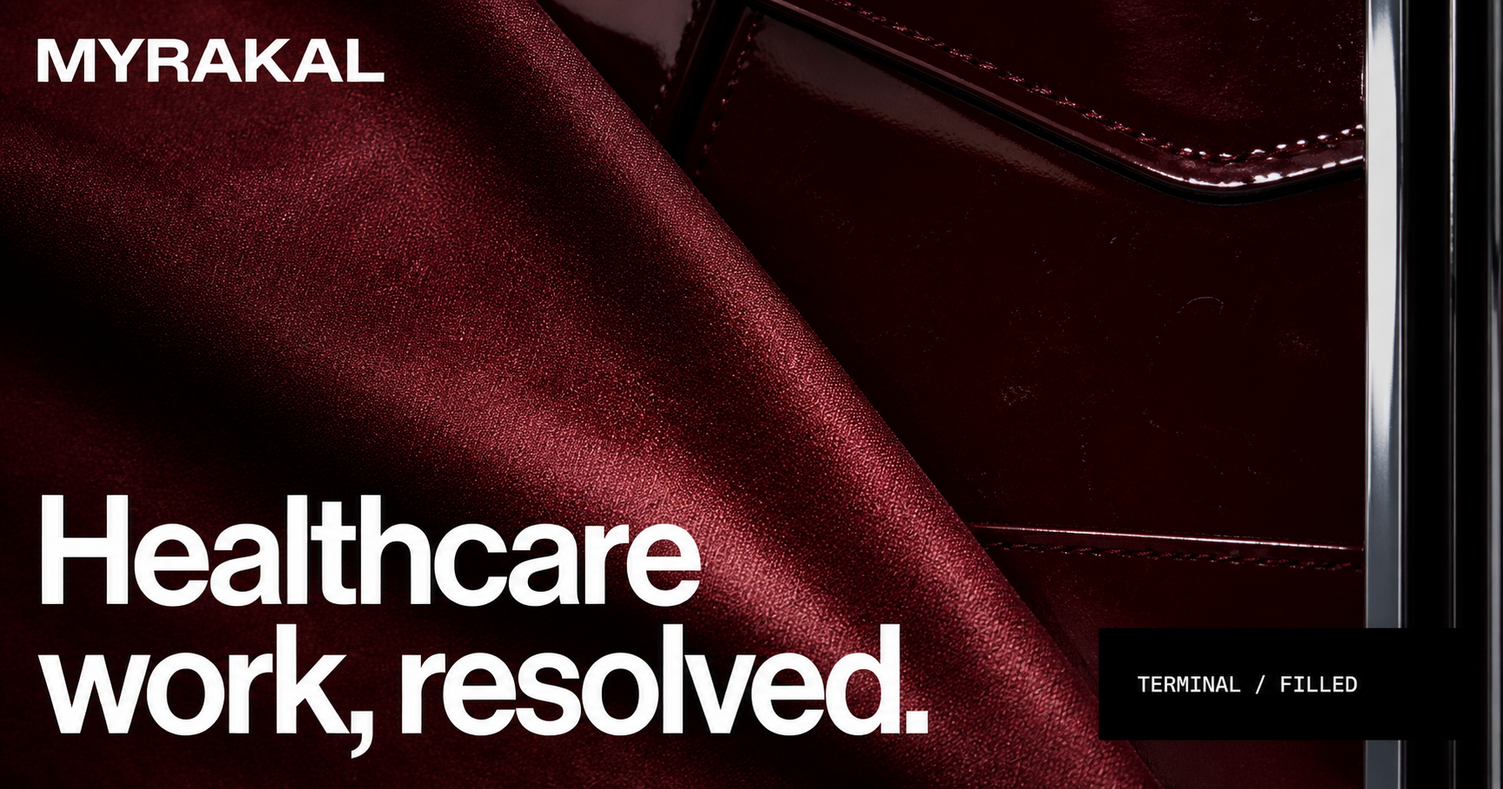
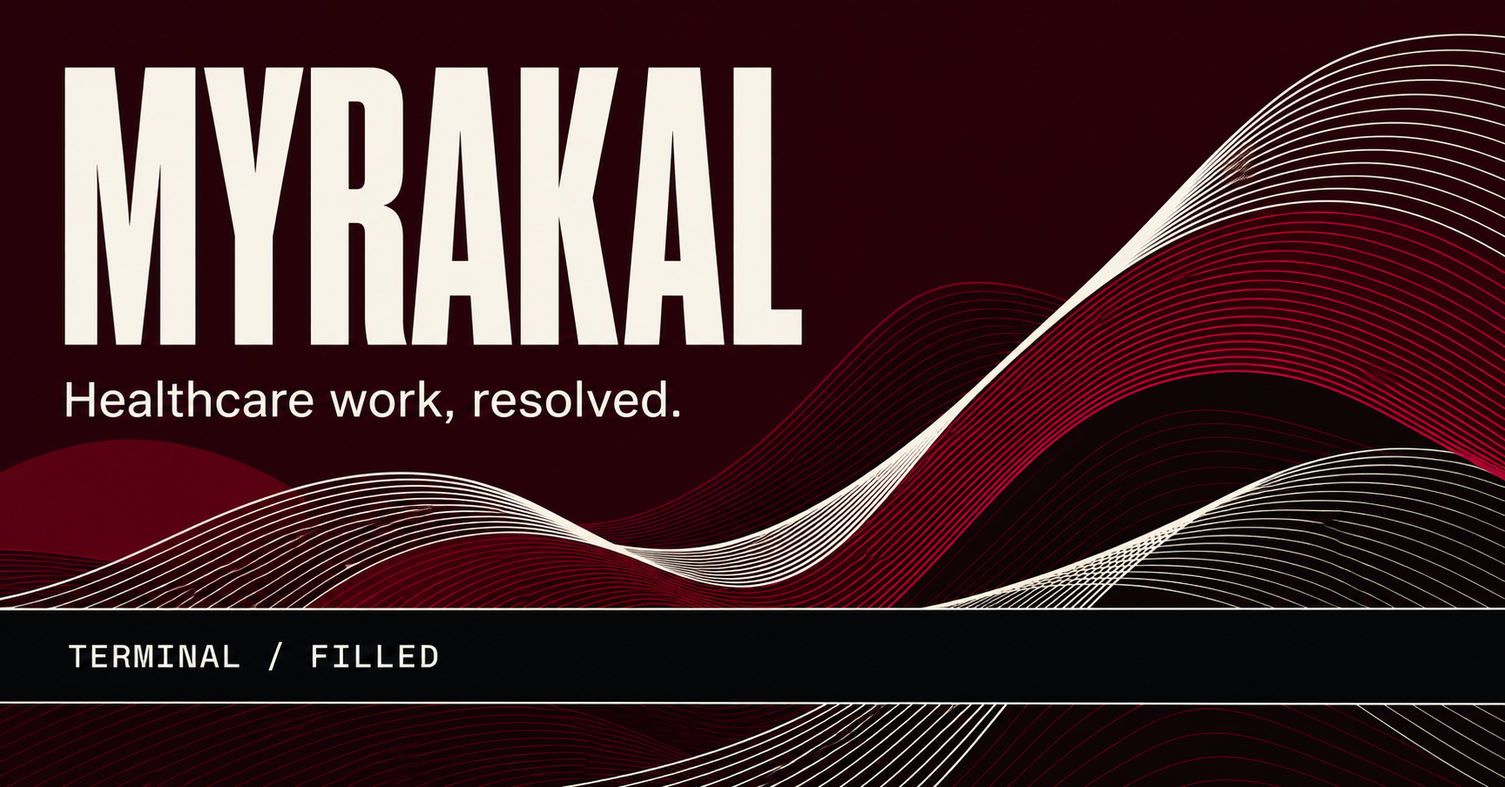
Replace photography with procedural motion

diff --git a/app/globals.css b/app/globals.css
@@ -2,17 +2,33 @@
 :root{--paper:#f2efe9;--ink:#090909;--ox:#700711;--deep:#240205;--pale:#f6f2ec;--rule:rgba(9,9,9,.24);--mono:var(--font-mono),ui-monospace,monospace}
 *{box-sizing:border-box}html{scroll-behavior:smooth}body{margin:0;background:var(--paper);color:var(--ink);font-family:var(--font-geist),Arial,sans-serif}a{color:inherit}a:focus-visible{outline:2px solid currentColor;outline-offset:5px}h1,h2,h3,p{margin-top:0}section{position:relative}.eyebrow,.section-number{font:500 .64rem/1.4 var(--mono);letter-spacing:.16em;margin:0 0 1.4rem}.eyebrow.dark{color:#655d58}section h2{font-size:clamp(3.5rem,6.8vw,7.8rem);line-height:.87;letter-spacing:-.07em;font-weight:520;margin:0}
 
-.hero{min-height:100svh;display:flex;align-items:flex-end;padding:9rem 3vw 4rem;color:var(--pale);background:var(--deep) url('/myrakal-hero.png') center/cover no-repeat;isolation:isolate;overflow:hidden}.cloth-ripple{position:absolute;inset:0;width:100%;height:100%;z-index:-3;display:block;opacity:0;transition:opacity 1.1s ease}.cloth-ripple[data-ready="true"]{opacity:1}.studio-light{position:absolute;inset:-30%;z-index:-2;background:linear-gradient(112deg,transparent 35%,rgba(255,220,215,.18) 47%,transparent 59%);mix-blend-mode:screen;animation:lightPass 9s ease-in-out infinite}.hero:after{content:"";position:absolute;inset:0;z-index:-1;background:linear-gradient(90deg,rgba(12,0,0,.48),rgba(12,0,0,.04) 60%,rgba(12,0,0,.4))}.nav{position:absolute;top:0;left:0;width:100%;padding:2rem 3vw;display:flex;justify-content:space-between;border-bottom:1px solid #ffffff47;font-size:.7rem;letter-spacing:.15em;z-index:2}.brand{font-weight:650;letter-spacing:.42em;text-decoration:none}.nav nav{display:flex;gap:2rem}.nav nav a{text-decoration:none}.hero-copy{width:min(1200px,92vw);animation:heroRise 1.2s cubic-bezier(.2,.7,.2,1) both}.hero h1{font-size:clamp(4.5rem,10.4vw,10.7rem);line-height:.79;letter-spacing:-.078em;font-weight:540;margin:0;max-width:11ch;animation:focusIn 1.6s .12s cubic-bezier(.2,.7,.2,1) both}.intro{max-width:55ch;font:400 clamp(.9rem,1.15vw,1.06rem)/1.55 var(--mono);margin:2.4rem 0 0}.hero-actions{display:flex;gap:2rem;margin-top:2rem}.hero-actions a{font:500 .66rem var(--mono);letter-spacing:.12em;text-decoration:none;border-bottom:1px solid;padding-bottom:.3rem}.live-readout{position:absolute;right:3vw;bottom:4rem;display:grid;gap:.55rem;text-align:right;font:500 .62rem/1 var(--mono);letter-spacing:.1em;animation:statusBlink 7s steps(1) infinite}@keyframes lightPass{0%,18%{transform:translateX(-35%);opacity:0}48%{opacity:.9}78%,100%{transform:translateX(35%);opacity:0}}@keyframes heroRise{from{opacity:0;transform:translateY(28px)}to{opacity:1;transform:none}}@keyframes focusIn{from{filter:blur(8px);opacity:.35}to{filter:blur(0);opacity:1}}@keyframes statusBlink{0%,94%{opacity:1}95%,97%{opacity:.45}98%,100%{opacity:1}}
+.hero{min-height:100svh;display:flex;align-items:flex-end;padding:9rem 3vw 4rem;color:var(--pale);background:radial-gradient(ellipse at 68% 28%,#5b0915 0%,#260207 48%,#100104 100%);isolation:isolate;overflow:hidden}.procedural-cloth{position:absolute;inset:0;width:100%;height:100%;z-index:-3;display:block}.hero:after{content:"";position:absolute;inset:0;z-index:-1;background:linear-gradient(90deg,rgba(12,0,0,.56),rgba(12,0,0,.02) 64%,rgba(12,0,0,.32))}.nav{position:absolute;top:0;left:0;width:100%;padding:2rem 3vw;display:flex;justify-content:space-between;border-bottom:1px solid #ffffff47;font-size:.7rem;letter-spacing:.15em;z-index:2}.brand{font-weight:650;letter-spacing:.42em;text-decoration:none}.nav nav{display:flex;gap:2rem}.nav nav a{text-decoration:none}.hero-copy{width:min(1200px,92vw);animation:heroRise 1.2s cubic-bezier(.2,.7,.2,1) both;position:relative;z-index:1}.hero h1{font-size:clamp(4.5rem,10.4vw,10.7rem);line-height:.79;letter-spacing:-.078em;font-weight:540;margin:0;max-width:11ch;animation:focusIn 1.6s .12s cubic-bezier(.2,.7,.2,1) both}.intro{max-width:55ch;font:400 clamp(.9rem,1.15vw,1.06rem)/1.55 var(--mono);margin:2.4rem 0 0}.hero-actions{display:flex;gap:2rem;margin-top:2rem}.hero-actions a{font:500 .66rem var(--mono);letter-spacing:.12em;text-decoration:none;border-bottom:1px solid;padding-bottom:.3rem}.live-readout{position:absolute;right:3vw;bottom:4rem;display:grid;gap:.55rem;text-align:right;font:500 .62rem/1 var(--mono);letter-spacing:.1em;animation:statusBlink 7s steps(1) infinite}.hero-trace{position:absolute;right:0;top:24%;width:min(31rem,42vw);background:#080808;color:#f4f1ec;padding:1.1rem 3vw 1.1rem 1.25rem;display:grid;gap:.65rem;font:500 .61rem var(--mono);letter-spacing:.07em;border-left:1px solid #fff;border-top:1px solid #444;border-bottom:1px solid #444}.hero-trace span{color:#8d8d8a}.hero-trace b{font-weight:500;background:var(--pale);color:var(--ink);padding:.45rem .55rem;width:max-content}@keyframes heroRise{from{opacity:0;transform:translateY(28px)}to{opacity:1;transform:none}}@keyframes focusIn{from{filter:blur(8px);opacity:.35}to{filter:blur(0);opacity:1}}@keyframes statusBlink{0%,94%{opacity:1}95%,97%{opacity:.45}98%,100%{opacity:1}}
 
 .problem{padding:12rem 3vw 10rem;background:var(--paper);min-height:110svh}.section-number{position:absolute;top:2rem;left:3vw;color:#655d58}.problem-head{max-width:1200px}.signal-stack{margin:8rem 0 7rem 34%;border-top:1px solid var(--ink)}.signal-stack article{display:grid;grid-template-columns:4rem 1fr;align-items:center;padding:1.4rem 0;border-bottom:1px solid var(--rule)}.signal-stack span{font:.64rem var(--mono)}.signal-stack p{font-size:clamp(1.25rem,2.4vw,2.55rem);letter-spacing:-.035em;margin:0}.problem-close{display:grid;grid-template-columns:1fr 1.55fr .55fr;gap:3vw;align-items:end;border-top:1px solid var(--ink);padding-top:1.5rem}.problem-close p{font:500 .68rem/1.5 var(--mono);letter-spacing:.09em}.problem-close strong{font-size:clamp(2.1rem,4.1vw,4.9rem);line-height:.94;letter-spacing:-.058em;font-weight:520}
 
 .schedule{padding:14vh 3vw 18vh;background:var(--paper)}.schedule-intro{display:grid;grid-template-columns:1fr 1.15fr;gap:5vw}.schedule-intro>.eyebrow{grid-column:1}.schedule-intro>h2{grid-column:1/3;max-width:14ch}.schedule-intro>p:not(.eyebrow){grid-column:2;max-width:42ch;font-size:1.16rem;line-height:1.45;margin:2rem 0 0}.comparison{grid-column:1/3;display:grid;grid-template-columns:1fr 1fr;margin-top:5rem;border-top:1px solid var(--ink)}.comparison article{padding:1.2rem 3vw 2rem 0;display:grid}.comparison article+article{border-left:1px solid var(--rule);padding-left:3vw}.comparison small,.comparison em{font:500 .61rem var(--mono);letter-spacing:.12em}.comparison b{font-size:clamp(3.5rem,7vw,8rem);line-height:.9;letter-spacing:-.075em;margin-top:2.5rem}.comparison span{font:.68rem var(--mono);margin:.6rem 0 2.2rem}.comparison em{font-style:normal}.resolution-run{margin-top:12rem;padding-left:7vw;position:relative}.run-rail{position:absolute;left:0;top:0;height:100%;display:flex;flex-direction:column;justify-content:space-between;font:500 .58rem var(--mono);letter-spacing:.12em;color:#777}.run-rail:after{content:"";position:absolute;left:50%;top:2rem;bottom:2rem;width:1px;background:var(--ox);transform-origin:top;animation:railDraw linear both;animation-timeline:view();animation-range:entry 5% cover 85%}.console{width:min(760px,72vw);margin-left:auto;background:#090909;color:var(--pale);padding:1.5rem;font:400 .69rem/1.4 var(--mono);box-shadow:12px 12px 0 var(--ox)}.console-top,.console-context{display:flex;justify-content:space-between;gap:1rem;letter-spacing:.07em}.console-top{padding-bottom:1rem;border-bottom:1px solid #404040}.console-context{color:#929292;padding:1rem 0 2.2rem}.log{border-top:1px solid #242424}.log-line{display:grid;grid-template-columns:5.9rem 1fr auto;gap:.7rem;padding:.85rem 0;border-bottom:1px solid #242424;animation:appear .2s both;animation-delay:calc(var(--i)*60ms)}.log-line time{color:#707070}.log-line b{font-weight:400}.case-panels{display:grid;grid-template-columns:.85fr 1.15fr;gap:2vw;margin:8rem 4vw 0 0}.case-panels article{padding:1.5rem}.why-panel{background:#090909;color:var(--pale);font:.68rem var(--mono)}.panel-head{display:flex;justify-content:space-between;border-bottom:1px solid #444;padding-bottom:1rem;margin-bottom:2rem;letter-spacing:.1em}.why-panel p{display:grid;grid-template-columns:7rem 1fr;padding:.85rem 0;border-top:1px solid #303030;margin:0}.why-panel p span{color:#777}.why-panel p b{font-weight:400}.barrier-panel{background:var(--ox);color:var(--pale);display:flex;flex-direction:column;justify-content:center}.barrier-panel h3{font-size:clamp(2.4rem,4.5vw,5.2rem);line-height:.94;letter-spacing:-.055em;font-weight:520}.barrier-path{display:grid;grid-template-columns:1fr auto 1fr;gap:1rem;border-top:1px solid #ffffff77;border-bottom:1px solid #ffffff77;padding:1rem 0;margin:3rem 0 2rem;font:.66rem var(--mono)}.barrier-path strong{font-weight:500}.barrier-panel>p:last-child{max-width:38ch;line-height:1.5}.exception-strip{margin:7rem 0 0 18vw;background:var(--paper);border-top:1px solid var(--ink);border-bottom:1px solid var(--ink);padding:1.4rem 0;display:grid;grid-template-columns:5rem 1.1fr 1.3fr auto;gap:2rem;align-items:center;font:.67rem var(--mono);letter-spacing:.05em}.exception-strip b{font-weight:600}.exception-strip p{margin:0}.exception-strip em{font-style:normal;background:var(--ink);color:var(--pale);padding:.8rem}.resume-console{width:min(760px,72vw);margin:7rem 8vw 0 auto;background:#090909;color:var(--pale);padding:1.5rem;font:.69rem var(--mono)}.resume-head{display:flex;justify-content:space-between;padding-bottom:1rem;border-bottom:1px solid #444;margin-bottom:1rem}.resume-console>div:not(.resume-head){display:grid;grid-template-columns:6rem 1fr auto;padding:.85rem 0;border-bottom:1px solid #282828}.resume-console time{color:#777}.resume-console b{font-weight:400}.resume-console>strong{display:flex;justify-content:space-between;background:var(--pale);color:var(--ink);padding:1rem;margin-top:2rem;letter-spacing:.08em}.run-close{font-size:clamp(3rem,6.8vw,8rem);line-height:.87;letter-spacing:-.07em;margin-top:8rem}.run-close p{margin:0}.run-close p:last-child{color:var(--ox)}@keyframes railDraw{from{transform:scaleY(0)}to{transform:scaleY(1)}}@keyframes appear{from{opacity:0;transform:translateY(3px)}to{opacity:1;transform:none}}
 
-.difference{min-height:110svh;background:var(--deep);color:var(--pale);display:grid;grid-template-columns:.78fr 1.22fr;overflow:hidden}.difference-machine{min-height:110svh;background:#090909;padding:2rem 2.5vw;display:flex;flex-direction:column;font:.68rem var(--mono);letter-spacing:.06em;border-right:1px solid #333}.difference-machine>div,.difference-machine>footer{display:flex;justify-content:space-between;border-bottom:1px solid #333;padding-bottom:1rem}.difference-machine>b{font:500 clamp(9rem,20vw,22rem)/.8 var(--font-geist);letter-spacing:-.1em;margin-top:auto}.difference-machine>p{color:#777}.difference-machine ul{list-style:none;margin:4rem 0 auto;padding:0;border-top:1px solid #333}.difference-machine li{display:flex;justify-content:space-between;padding:1rem 0;border-bottom:1px solid #252525}.difference-machine li strong{font-weight:400;color:#aaa}.difference-machine>footer{border-top:1px solid #333;border-bottom:0;padding:1rem 0 0}.difference-copy{background:var(--ox);padding:12vh 3vw;display:flex;flex-direction:column;justify-content:center}.difference-copy h2{font-size:clamp(3.5rem,6vw,7rem)}.difference-grid{margin-top:6rem;border-top:1px solid #ffffff88}.difference-grid article{display:grid;grid-template-columns:3rem 1fr 1.1fr;gap:1rem;align-items:start;padding:1.4rem 0;border-bottom:1px solid #ffffff55}.difference-grid span{font:.6rem var(--mono)}.difference-grid h3{font-size:1.6rem;line-height:1;letter-spacing:-.04em;font-weight:520}.difference-grid p{font-size:.9rem;line-height:1.45;margin:0}
+.difference{min-height:110svh;background:var(--deep);color:var(--pale);display:grid;grid-template-columns:.78fr 1.22fr;overflow:hidden}.difference-machine{min-height:110svh;background:#090909;padding:2rem 2.5vw;display:flex;flex-direction:column;font:.68rem var(--mono);letter-spacing:.06em;border-right:1px solid #3c3c3c}.difference-machine>div,.difference-machine>footer{display:flex;justify-content:space-between;border-bottom:1px solid #333;padding-bottom:1rem}.difference-machine>b{font:500 clamp(9rem,20vw,22rem)/.8 var(--font-geist);letter-spacing:-.1em;margin-top:auto}.difference-machine>p{color:#777}.difference-machine ul{list-style:none;margin:4rem 0 auto;padding:0;border-top:1px solid #333}.difference-machine li{display:flex;justify-content:space-between;padding:1rem 0;border-bottom:1px solid #252525}.difference-machine li strong{font-weight:400;color:#aaa}.difference-machine>footer{border-top:1px solid #333;border-bottom:0;padding:1rem 0 0}.difference-copy{background:var(--ox);padding:12vh 3vw;display:flex;flex-direction:column;justify-content:center}.difference-copy h2{font-size:clamp(3.5rem,6vw,7rem)}.difference-grid{margin-top:6rem;border-top:1px solid #ffffff88}.difference-grid article{display:grid;grid-template-columns:3rem 1fr 1.1fr;gap:1rem;align-items:start;padding:1.4rem 0;border-bottom:1px solid #ffffff55}.difference-grid span{font:.6rem var(--mono)}.difference-grid h3{font-size:1.6rem;line-height:1;letter-spacing:-.04em;font-weight:520}.difference-grid p{font-size:.9rem;line-height:1.45;margin:0}
 
 .ghost{padding:14vh 3vw 16vh;background:var(--ox);color:var(--pale);display:grid;grid-template-columns:1fr 1fr;gap:8vw}.ghost-copy p:last-child{max-width:42ch;font-size:1.08rem;line-height:1.5;margin-top:2.5rem}.ghost-console{background:#090909;padding:1.5rem;font:400 .7rem var(--mono);align-self:end;box-shadow:12px 12px 0 var(--pale)}.ghost-head{display:flex;justify-content:space-between;border-bottom:1px solid #444;padding-bottom:1rem}.ghost-console>b{font:500 clamp(4rem,8vw,8rem)/1 var(--font-geist);display:block;letter-spacing:-.07em;margin-top:3rem}.ghost-console>span{color:#aaa}.ghost-stats{display:grid;grid-template-columns:repeat(3,1fr);margin-top:4rem;border-top:1px solid #444}.ghost-stats p{padding:1rem 1rem 2rem 0;border-right:1px solid #333;margin:0}.ghost-stats b{display:block;font-size:1.8rem;margin-bottom:.5rem}
 
 .platform{background:#090909;color:var(--pale)}.platform-top{padding:14vh 3vw 12vh;display:grid;grid-template-columns:1.15fr .85fr;gap:8vw}.platform-top>div:first-child>p:last-child{max-width:43ch;font-size:1.08rem;line-height:1.5;margin-top:2.5rem}.system-flow{align-self:center;display:grid;text-align:center;font:.68rem var(--mono);letter-spacing:.08em}.system-flow span,.system-flow b{border:1px solid #ffffff90;padding:1.8rem 1rem}.system-flow b{background:var(--pale);color:var(--ink)}.system-flow i{font-style:normal;padding:1.2rem}.trust-grid{display:grid;grid-template-columns:repeat(4,1fr);border-top:1px solid #363636;border-bottom:1px solid #363636;margin:0 3vw}.trust-grid article{padding:1.4rem 2vw 5rem 0;border-right:1px solid #363636}.trust-grid article+article{padding-left:2vw}.trust-grid article:last-child{border-right:0}.trust-grid span{font:.6rem var(--mono);color:#777}.trust-grid h3{font-size:1.55rem;line-height:1;letter-spacing:-.04em;font-weight:520;margin:3rem 0 1.2rem}.trust-grid p{font-size:.88rem;line-height:1.5;color:#bbb}.final-cta{min-height:95svh;background:var(--ox);margin-top:12vh;padding:12vh 3vw 2rem;display:flex;flex-direction:column}.final-cta h2{font-size:clamp(4rem,8vw,9rem);max-width:10ch}.final-cta>a{margin-top:auto;border-top:1px solid;border-bottom:1px solid;padding:1.5rem 0;display:flex;justify-content:space-between;text-decoration:none;font:500 clamp(1.2rem,2vw,2rem) var(--mono)}.final-cta>a:hover{padding-left:1rem;padding-right:1rem}footer{display:flex;justify-content:space-between;padding-top:2rem;font:500 .62rem var(--mono);letter-spacing:.13em}
 
-@media(max-width:800px){.nav nav a:not(:last-child),.live-readout{display:none}.hero{padding:8rem 1.25rem 2rem}.nav{padding:1.5rem 1.25rem}.hero-actions{gap:1rem;flex-wrap:wrap}.problem{padding:8rem 1.25rem}.section-number{left:1.25rem}.signal-stack{margin:6rem 0}.problem-close{grid-template-columns:1fr}.schedule{padding:7rem 1.25rem}.schedule-intro{display:block}.schedule-intro>p:not(.eyebrow){margin-top:2rem}.comparison{grid-template-columns:1fr}.comparison article+article{border-left:0;border-top:1px solid var(--rule);padding-left:0}.resolution-run{margin-top:7rem;padding-left:0}.run-rail{display:none}.console,.resume-console{width:100%;margin:0;padding:1rem;box-shadow:7px 7px 0 var(--ox)}.log-line{grid-template-columns:4.8rem 1fr auto;font-size:.56rem}.case-panels{grid-template-columns:1fr;margin:5rem 0 0}.barrier-path{grid-template-columns:1fr auto}.barrier-path strong{grid-column:1/3}.exception-strip{margin:5rem 0;grid-template-columns:4rem 1fr}.exception-strip p,.exception-strip em{grid-column:2}.difference{grid-template-columns:1fr}.difference-machine{min-height:70svh}.difference-machine>b{font-size:12rem}.difference-copy{padding:6rem 1.25rem}.difference-grid article{grid-template-columns:2rem 1fr}.difference-grid p{grid-column:2}.ghost{display:block;padding:7rem 1.25rem}.ghost-console{margin-top:5rem;box-shadow:7px 7px 0 var(--pale)}.ghost-stats{grid-template-columns:1fr}.ghost-stats p{border-right:0;border-bottom:1px solid #333}.platform-top{display:block;padding:7rem 1.25rem}.system-flow{margin-top:5rem}.trust-grid{grid-template-columns:1fr;margin:0 1.25rem}.trust-grid article,.trust-grid article+article{border-right:0;border-bottom:1px solid #363636;padding:1.4rem 0 3rem}.final-cta{padding:7rem 1.25rem 1.5rem}footer{gap:1rem;flex-wrap:wrap}}
-@media(prefers-reduced-motion:reduce){html{scroll-behavior:auto}.studio-light,.hero-copy,.hero h1,.live-readout,.log-line,.run-rail:after{animation:none}}
+@media(max-width:800px){.nav nav a:not(:last-child),.live-readout{display:none}.hero{padding:8rem 1.25rem 2rem}.nav{padding:1.5rem 1.25rem}.hero-actions{gap:1rem;flex-wrap:wrap}.hero-trace{top:7rem;width:72vw;right:0}.problem{padding:8rem 1.25rem}.section-number{left:1.25rem}.signal-stack{margin:6rem 0}.problem-close{grid-template-columns:1fr}.schedule{padding:7rem 1.25rem}.schedule-intro{display:block}.schedule-intro>p:not(.eyebrow){margin-top:2rem}.comparison{grid-template-columns:1fr}.comparison article+article{border-left:0;border-top:1px solid var(--rule);padding-left:0}.resolution-run{margin-top:7rem;padding-left:0}.run-rail{display:none}.console,.resume-console{width:100%;margin:0;padding:1rem;box-shadow:7px 7px 0 var(--ox)}.log-line{grid-template-columns:4.8rem 1fr auto;font-size:.56rem}.case-panels{grid-template-columns:1fr;margin:5rem 0 0}.barrier-path{grid-template-columns:1fr auto}.barrier-path strong{grid-column:1/3}.exception-strip{margin:5rem 0;grid-template-columns:4rem 1fr}.exception-strip p,.exception-strip em{grid-column:2}.difference{grid-template-columns:1fr}.difference-machine{min-height:70svh}.difference-machine>b{font-size:12rem}.difference-copy{padding:6rem 1.25rem}.difference-grid article{grid-template-columns:2rem 1fr}.difference-grid p{grid-column:2}.ghost{display:block;padding:7rem 1.25rem}.ghost-console{margin-top:5rem;box-shadow:7px 7px 0 var(--pale)}.ghost-stats{grid-template-columns:1fr}.ghost-stats p{border-right:0;border-bottom:1px solid #333}.platform-top{display:block;padding:7rem 1.25rem}.system-flow{margin-top:5rem}.trust-grid{grid-template-columns:1fr;margin:0 1.25rem}.trust-grid article,.trust-grid article+article{border-right:0;border-bottom:1px solid #363636;padding:1.4rem 0 3rem}.final-cta{padding:7rem 1.25rem 1.5rem}footer{gap:1rem;flex-wrap:wrap}}
+@media(prefers-reduced-motion:reduce){html{scroll-behavior:auto}.hero-copy,.hero h1,.live-readout,.log-line,.run-rail:after{animation:none}}
+
+/* Computation is embedded into the editorial flow rather than isolated. */
+.signal-stack{margin-left:24%}
+.signal-stack article{grid-template-columns:4rem 1fr auto}
+.signal-stack b{font:500 .61rem var(--mono);letter-spacing:.08em;background:var(--ink);color:var(--pale);padding:.7rem .8rem}
+.signal-stack article:nth-child(2) b{background:var(--ox)}
+.schedule-state{grid-column:1/3;margin:3rem -3vw 0;background:var(--ink);color:var(--pale);display:grid;grid-template-columns:1fr 1fr auto;gap:2rem;padding:1rem 3vw;font:500 .64rem var(--mono);letter-spacing:.08em}
+.schedule-state b{background:var(--pale);color:var(--ink);padding:.35rem .55rem;font-weight:500}
+
+@media(max-width:800px){
+  .signal-stack{margin-left:0}
+  .signal-stack article{grid-template-columns:2.5rem 1fr}
+  .signal-stack b{grid-column:2;width:max-content;margin-top:1rem}
+  .schedule-state{margin:3rem -1.25rem 0;padding:1rem 1.25rem;grid-template-columns:1fr;gap:.7rem}
+  .schedule-state b{width:max-content}
+}

diff --git a/app/ProceduralCloth.tsx b/app/ProceduralCloth.tsx
@@ -1,0 +1,138 @@
+"use client";
+
+import { useEffect, useRef } from "react";
+
+const vertexSource = `
+attribute vec2 a_position;
+void main() { gl_Position = vec4(a_position, 0.0, 1.0); }
+`;
+
+const fragmentSource = `
+precision highp float;
+uniform vec2 u_resolution;
+uniform float u_time;
+
+float hash(vec2 p) {
+  p = fract(p * vec2(123.34, 456.21));
+  p += dot(p, p + 45.32);
+  return fract(p.x * p.y);
+}
+
+float fabric(vec2 p, float t) {
+  vec2 q = mat2(0.88, -0.48, 0.48, 0.88) * p;
+  float breath = sin(t * 0.42) * 0.18;
+  float broad = sin(q.x * 4.2 + sin(q.y * 2.0 + t * 0.32) * (1.5 + breath));
+  float crossing = sin(q.x * 8.4 - q.y * 1.6 - t * 0.44) * 0.28;
+  float longWave = sin(q.y * 3.2 + q.x * 0.8 + t * 0.24) * 0.22;
+  float ripple = sin(q.x * 15.0 + q.y * 2.5 + t * 0.65) * 0.07;
+  return broad * 0.62 + crossing + longWave + ripple;
+}
+
+void main() {
+  vec2 uv = gl_FragCoord.xy / u_resolution;
+  float aspect = u_resolution.x / u_resolution.y;
+  vec2 p = (uv - 0.5) * vec2(aspect, 1.0) * 1.42;
+  float t = u_time;
+
+  float e = 0.0025;
+  float h = fabric(p, t);
+  float hx = fabric(p + vec2(e, 0.0), t);
+  float hy = fabric(p + vec2(0.0, e), t);
+  vec3 normal = normalize(vec3(-(hx - h) / e * 0.3, -(hy - h) / e * 0.3, 1.0));
+
+  float threads = (hash(vec2(p.x * 34.0, p.y * 560.0)) - 0.5) * 0.055;
+  normal = normalize(normal + vec3(threads * 0.3, threads, 0.0));
+
+  vec3 viewDir = vec3(0.0, 0.0, 1.0);
+  vec3 key = normalize(vec3(-0.42 + sin(t * 0.16) * 0.18, 0.62, 0.58));
+  vec3 rim = normalize(vec3(0.78, -0.32, 0.42));
+  float diffuse = max(dot(normal, key), 0.0);
+  float rimLight = max(dot(normal, rim), 0.0);
+  float specular = pow(max(dot(normal, normalize(key + viewDir)), 0.0), 24.0);
+  float satin = pow(max(dot(normal, normalize(vec3(key.x * 0.2, key.y, key.z) + viewDir)), 0.0), 7.0);
+
+  vec3 shadow = vec3(0.055, 0.0015, 0.006);
+  vec3 oxblood = vec3(0.38, 0.008, 0.026);
+  vec3 highlight = vec3(0.86, 0.08, 0.12);
+  vec3 color = mix(shadow, oxblood, 0.18 + diffuse * 0.72);
+  color += highlight * (specular * 0.72 + satin * 0.19);
+  color += vec3(0.22, 0.015, 0.02) * rimLight * 0.2;
+
+  float grain = hash(gl_FragCoord.xy + floor(t * 8.0)) - 0.5;
+  color += grain * 0.022;
+  float vignette = 1.0 - smoothstep(0.18, 1.05, length((uv - 0.5) * vec2(0.82, 1.0)));
+  color *= 0.58 + vignette * 0.58;
+  gl_FragColor = vec4(color, 1.0);
+}
+`;
+
+function compile(gl: WebGLRenderingContext, type: number, source: string) {
+  const shader = gl.createShader(type);
+  if (!shader) return null;
+  gl.shaderSource(shader, source);
+  gl.compileShader(shader);
+  if (!gl.getShaderParameter(shader, gl.COMPILE_STATUS)) {
+    gl.deleteShader(shader);
+    return null;
+  }
+  return shader;
+}
+
+export function ProceduralCloth() {
+  const ref = useRef<HTMLCanvasElement>(null);
+
+  useEffect(() => {
+    const canvas = ref.current;
+    const gl = canvas?.getContext("webgl", { alpha: false, antialias: false });
+    if (!canvas || !gl) return;
+
+    const vertex = compile(gl, gl.VERTEX_SHADER, vertexSource);
+    const fragment = compile(gl, gl.FRAGMENT_SHADER, fragmentSource);
+    const program = gl.createProgram();
+    if (!vertex || !fragment || !program) return;
+    gl.attachShader(program, vertex);
+    gl.attachShader(program, fragment);
+    gl.linkProgram(program);
+    if (!gl.getProgramParameter(program, gl.LINK_STATUS)) return;
+    gl.useProgram(program);
+
+    const buffer = gl.createBuffer();
+    gl.bindBuffer(gl.ARRAY_BUFFER, buffer);
+    gl.bufferData(gl.ARRAY_BUFFER, new Float32Array([-1,-1, 1,-1, -1,1, -1,1, 1,-1, 1,1]), gl.STATIC_DRAW);
+    const position = gl.getAttribLocation(program, "a_position");
+    gl.enableVertexAttribArray(position);
+    gl.vertexAttribPointer(position, 2, gl.FLOAT, false, 0, 0);
+
+    const resolution = gl.getUniformLocation(program, "u_resolution");
+    const time = gl.getUniformLocation(program, "u_time");
+    const reduced = window.matchMedia("(prefers-reduced-motion: reduce)").matches;
+    const started = performance.now();
+    let frame = 0;
+
+    const render = (now: number) => {
+      const ratio = Math.min(window.devicePixelRatio || 1, 1.5);
+      const width = Math.max(1, Math.round(canvas.clientWidth * ratio));
+      const height = Math.max(1, Math.round(canvas.clientHeight * ratio));
+      if (canvas.width !== width || canvas.height !== height) {
+        canvas.width = width;
+        canvas.height = height;
+      }
+      gl.viewport(0, 0, width, height);
+      gl.uniform2f(resolution, width, height);
+      gl.uniform1f(time, reduced ? 2.4 : (now - started) / 1000);
+      gl.drawArrays(gl.TRIANGLES, 0, 6);
+      if (!reduced) frame = requestAnimationFrame(render);
+    };
+    render(started);
+
+    return () => {
+      cancelAnimationFrame(frame);
+      gl.deleteBuffer(buffer);
+      gl.deleteProgram(program);
+      gl.deleteShader(vertex);
+      gl.deleteShader(fragment);
+    };
+  }, []);
+
+  return <canvas ref={ref} className="procedural-cloth" aria-hidden="true" />;
+}

diff --git a/app/page.tsx b/app/page.tsx
@@ -1,4 +1,4 @@
-import { ClothRipple } from "./ClothRipple";
+import { ProceduralCloth } from "./ProceduralCloth";
 
 const execution = [
   ["10:18:04", "opening.detected", "THU 14:00 / 90m"],
@@ -25,8 +25,7 @@ const reasons = [
 export default function Home() {
   return <main>
     <section className="hero" id="top">
-      <ClothRipple />
-      <div className="studio-light" aria-hidden="true" />
+      <ProceduralCloth />
       <header className="nav">
         <a className="brand" href="#top" aria-label="Myrakal home">MYRAKAL</a>
         <nav aria-label="Primary navigation"><a href="#problem">The problem</a><a href="#schedule">See it work</a><a href="#access">Request access</a></nav>
@@ -38,15 +37,16 @@ export default function Home() {
         <div className="hero-actions"><a href="#schedule">SEE MYRAKAL WORK ↓</a><a href="#difference">HOW IT WORKS</a></div>
       </div>
       <div className="live-readout" aria-label="Live resolution states"><span>MYRA / LIVE</span><span>ACTIVE 14</span><span>WAITING 03</span><span>TERMINAL 11</span></div>
+      <div className="hero-trace" aria-label="Current resolution trace"><span>10:18:04 / OPENING.DETECTED</span><span>10:18:10 / CANDIDATES.VIABLE 03</span><b>STATE / ACTING</b></div>
     </section>
 
     <section className="problem" id="problem">
       <p className="section-number">01 / THE EXECUTION PROBLEM</p>
       <div className="problem-head"><p className="eyebrow dark">YOUR PRACTICE ALREADY KNOWS</p><h2>The work isn’t missing.<br/>The follow-through is.</h2></div>
       <div className="signal-stack">
-        <article><span>01</span><p>A 90-minute opening appears tomorrow.</p></article>
-        <article><span>02</span><p>A cancelled crown is never rescheduled.</p></article>
-        <article><span>03</span><p>A patient is waiting on insurance.</p></article>
+        <article><span>01</span><p>A 90-minute opening appears tomorrow.</p><b>STATE / OPEN</b></article>
+        <article><span>02</span><p>A cancelled crown is never rescheduled.</p><b>STATE / UNRESOLVED</b></article>
+        <article><span>03</span><p>A patient is waiting on insurance.</p><b>STATE / BLOCKED</b></article>
       </div>
       <div className="problem-close"><p>Practice software records what happened.</p><strong>Nobody continuously owns what happens next.</strong><p>MYRAKAL DOES.</p></div>
     </section>
@@ -56,6 +56,7 @@ export default function Home() {
         <p className="eyebrow dark">02 / SCHEDULE RECOVERY</p>
         <h2>An opening isn’t a list.<br/>It’s a matching problem.</h2>
         <p>Thursday · 2:00 PM · 90 minutes. A cancellation creates unused capacity. Myrakal works the opening from first signal to final outcome.</p>
+        <div className="schedule-state"><span>TRIGGER / CANCELLATION</span><span>MISSION / 0418</span><b>STATE / EVALUATING</b></div>
         <div className="comparison"><article><small>TYPICAL SOFTWARE</small><b>127</b><span>patients on a list</span><em>SEND BLAST</em></article><article><small>MYRAKAL</small><b>14 → 3 → 1</b><span>possible · viable · next action</span><em>RESOLVE</em></article></div>
       </div>
 
@@ -89,12 +90,7 @@ export default function Home() {
     </section>
 
     <section className="difference" id="difference">
-      <div className="difference-machine" aria-label="Myrakal resolution states">
-        <div><span>MYRA / OPERATIONS</span><span>STATE / ACTIVE</span></div>
-        <b>14</b><p>CASES IN MOTION</p>
-        <ul><li><span>schedule.recovery</span><strong>acting</strong></li><li><span>insurance.dependency</span><strong>waiting</strong></li><li><span>treatment.followup</span><strong>observing</strong></li><li><span>staff.exception</span><strong>01</strong></li></ul>
-        <footer><span>RESOLVED / 11</span><span>ESCALATED / 03</span></footer>
-      </div>
+      <div className="difference-machine" aria-label="Myrakal resolution states"><div><span>MYRA / OPERATIONS</span><span>STATE / ACTIVE</span></div><b>14</b><p>CASES IN MOTION</p><ul><li><span>schedule.recovery</span><strong>acting</strong></li><li><span>insurance.dependency</span><strong>waiting</strong></li><li><span>treatment.followup</span><strong>observing</strong></li><li><span>staff.exception</span><strong>01</strong></li></ul><footer><span>RESOLVED / 11</span><span>ESCALATED / 03</span></footer></div>
       <div className="difference-copy">
         <p className="eyebrow">03 / WHY MYRAKAL</p>
         <h2>Your team handles judgment.<br/>Myrakal handles persistence.</h2>
